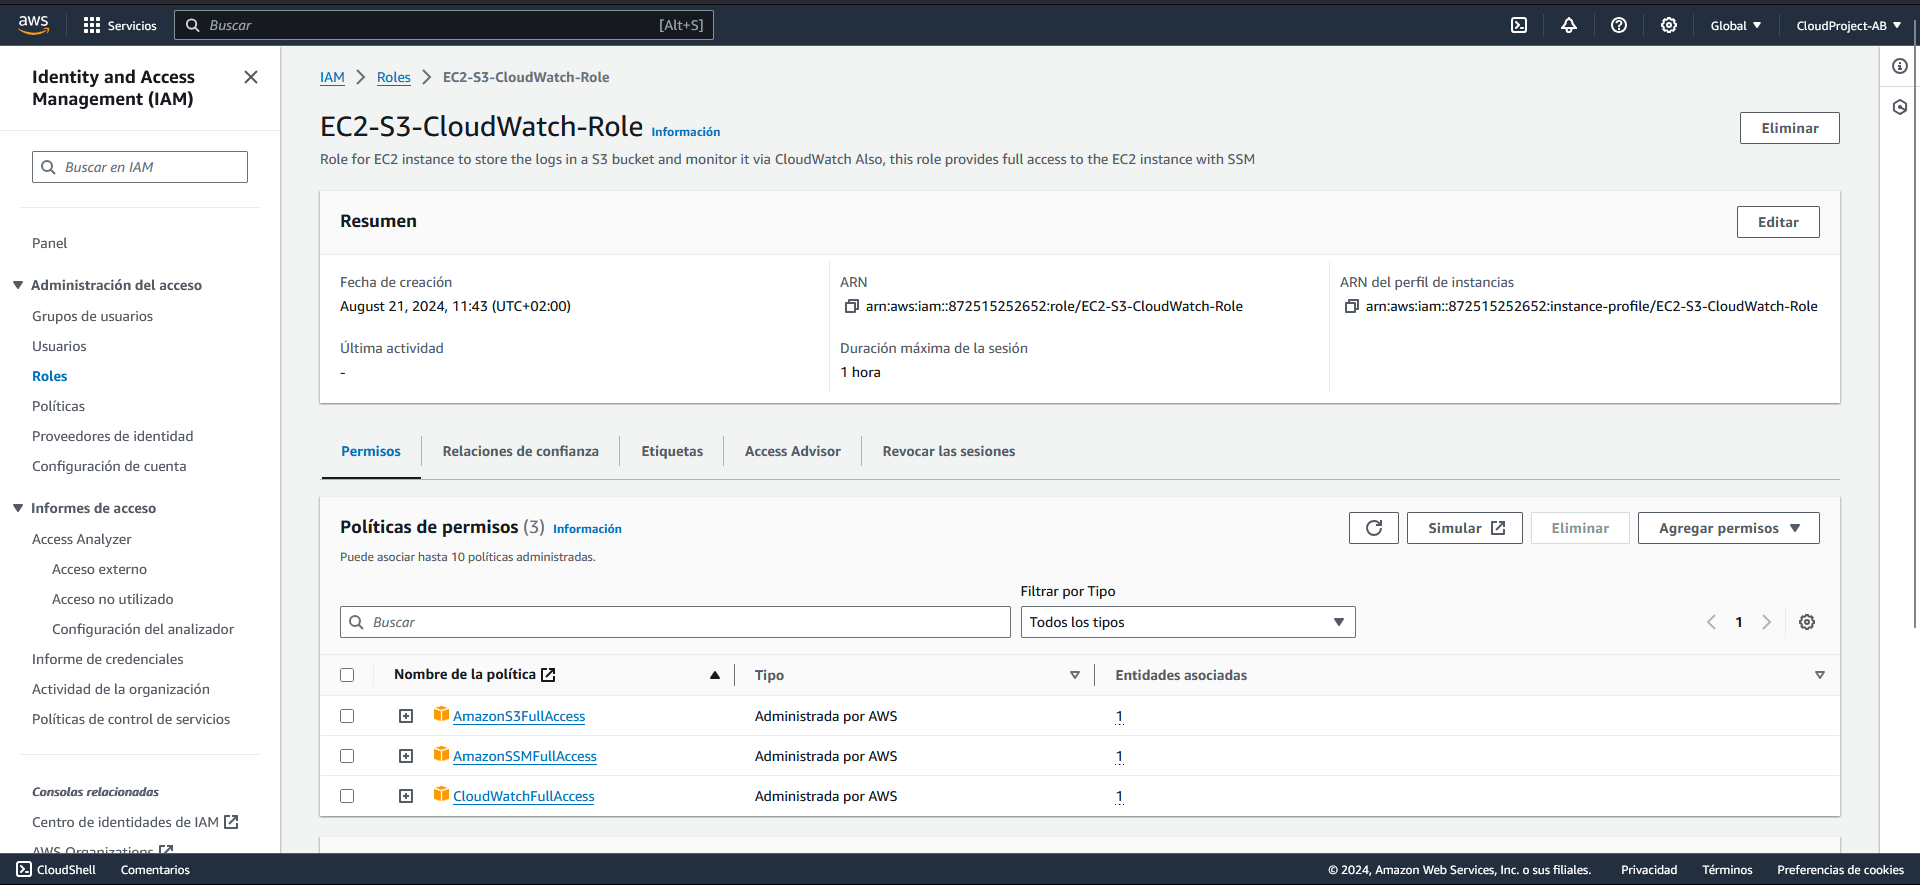
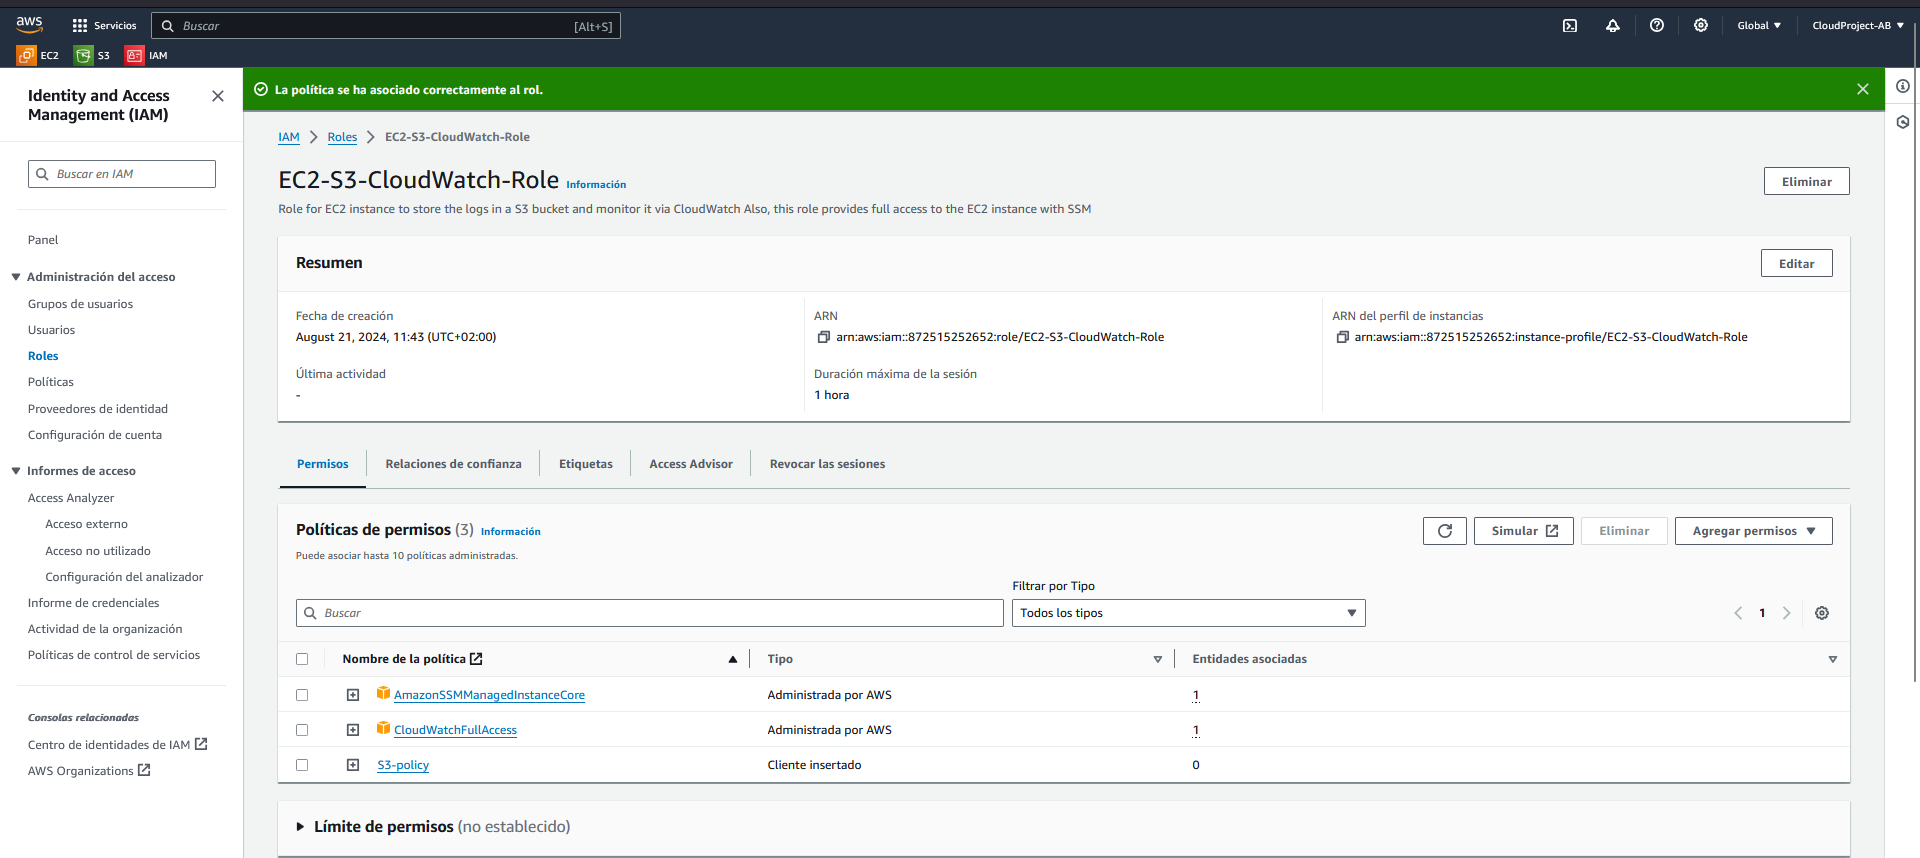
```

diff --git a/README.md b/README.md
@@ -97,11 +97,30 @@ We will define two IAM roles: one for access the EC2 instance with SSM and anoth
 
 The IAM role for the EC2 instance will have the following permissions:
 
-  - AmazonSSMFullAccess (to allow access to the instance with SSM)
+  - AmazonSSMManagedInstanceCore (to allow access to the EC2 instance with SSM)
   - AmazonS3FullAccess (to allow access to the S3 bucket)
-  - CloudWatchFullAccess (to allow access to CloudWatch)
+  - Custom S3 policy to allow the EC2 instance to upload, download and list objects in the bucket
 
-  - **Screenshot:**
+  ```json
+  {
+    "Version": "2012-10-17",
+    "Statement": [
+      {
+			  "Effect": "Allow",
+			  "Action": [
+				  "s3:PutObject",
+				  "s3:GetObject",
+				  "s3:ListBucket"
+			  ],
+			  "Resource": [
+				  "arn:aws:s3:::juiceshop-logs",
+				  "arn:aws:s3::::juiceshop-logs/*"
+			  ]
+		  }
+	  ]
+  }
+
+- **Screenshot:**
 
   ![IAM Role](screenshots/IAM%20Role.png)
 
